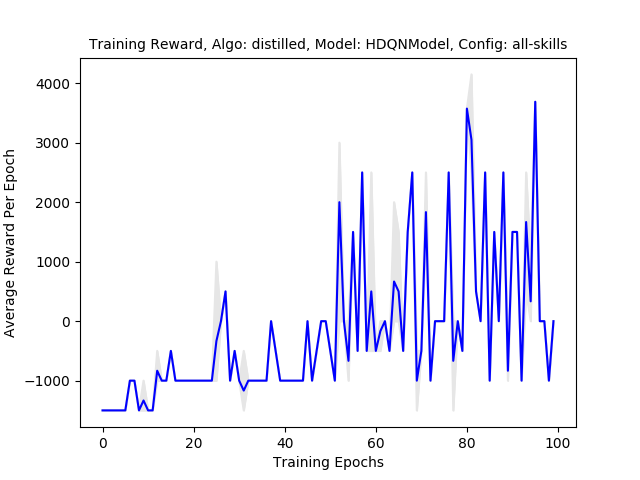
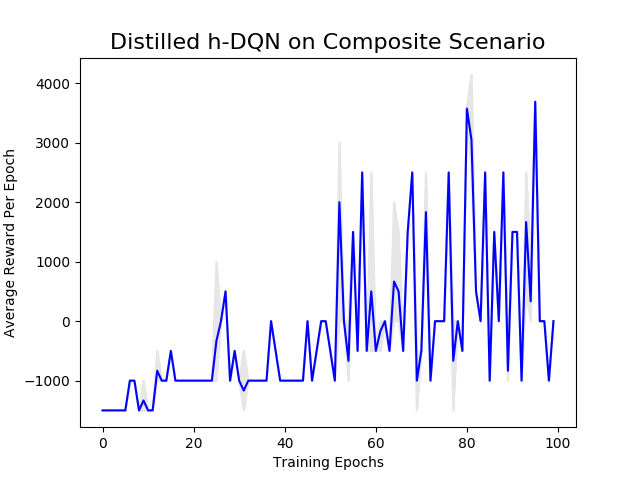
Updated Figures

Changed region(s): [[0.1562, 0.0625, 0.875, 0.125]]

diff --git a/src/Graphs.py b/src/Graphs.py
@@ -14,7 +14,7 @@ if __name__ == '__main__':
         plt.plot(max_, color='#e6e6e6')
         plt.fill_between(list(range(len(avg_))), min_,max_,interpolate=True,color='#e6e6e6')
         plt.plot(avg_, color='blue')
-        if filename == 'double-dqlearn_HDQNModel_all-skills.csv':
+        if filename == 'distilled_HDQNModel_all-skills.csv':
             plt.title('Distilled h-DQN on Composite Scenario', fontsize=16)
         else:
             plt.title('Training Reward, Algo: ' + labels[0] + ', Model: '  + labels[1] + ', Config: ' + labels[2], fontsize=10)
